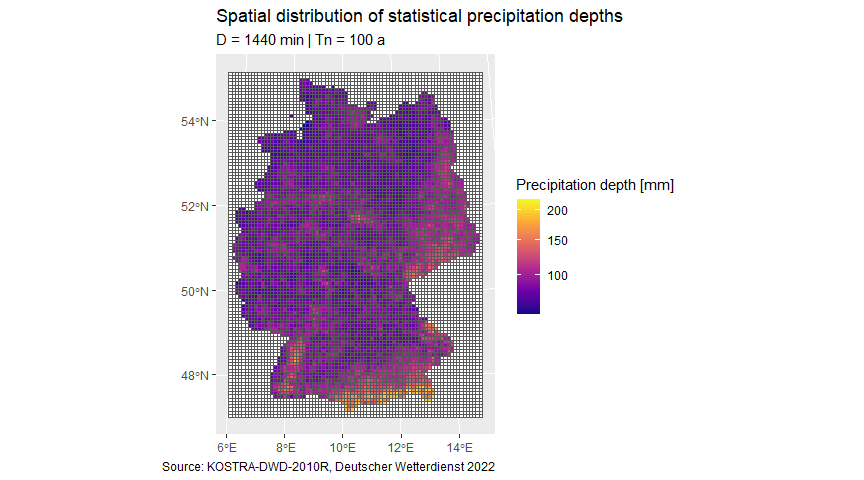
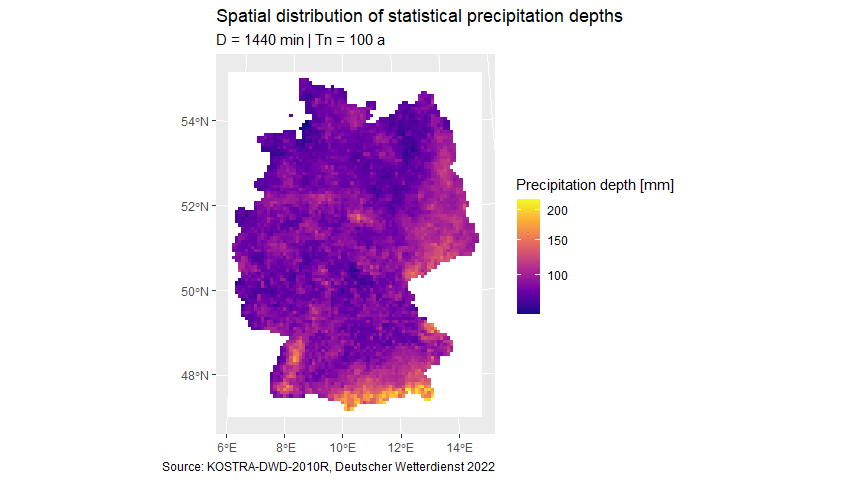
enh(ggplot_spatial): rm grid

Changed region(s): [[0.25, 0.125, 0.5625, 0.875]]

diff --git a/README.md b/README.md
@@ -46,7 +46,7 @@ and load the package via
 
 ``` r
 library(kostra2010R)
-#> 0.13.7
+#> 0.13.8
 ```
 
 ## Getting started
@@ -234,7 +234,7 @@ helper function.
 
 ``` r
 as_yield(62.1, d = 240)
-#> 43.1 [L/(s*ha)]
+#> 43.1 [L/ha/s]
 
 as_depth(43.1, d = 240)
 #> 62.1 [mm]
@@ -300,7 +300,7 @@ intensity-duration-frequency curves …
 ggplot_idf(stats, log10 = TRUE)
 ```
 
-<img src="man/figures/README-unnamed-chunk-18-1.png" alt="" width="100%" />
+<img src="man/figures/README-unnamed-chunk-18-1.png" width="100%" />
 
 … examined spatially for defined duration levels and return periods …
 
@@ -308,7 +308,7 @@ ggplot_idf(stats, log10 = TRUE)
 ggplot_spatial(d = 1440, tn = 100)
 ```
 
-<img src="man/figures/README-unnamed-chunk-19-1.png" alt="" width="100%" />
+<img src="man/figures/README-unnamed-chunk-19-1.png" width="100%" />
 
 … or exported to disk using `write_stats()` based on `write.table()`.
 

diff --git a/NEWS.md b/NEWS.md
@@ -1,4 +1,4 @@
-# version 0.13.8
+# version 0.13.9
 
 ## features
 
